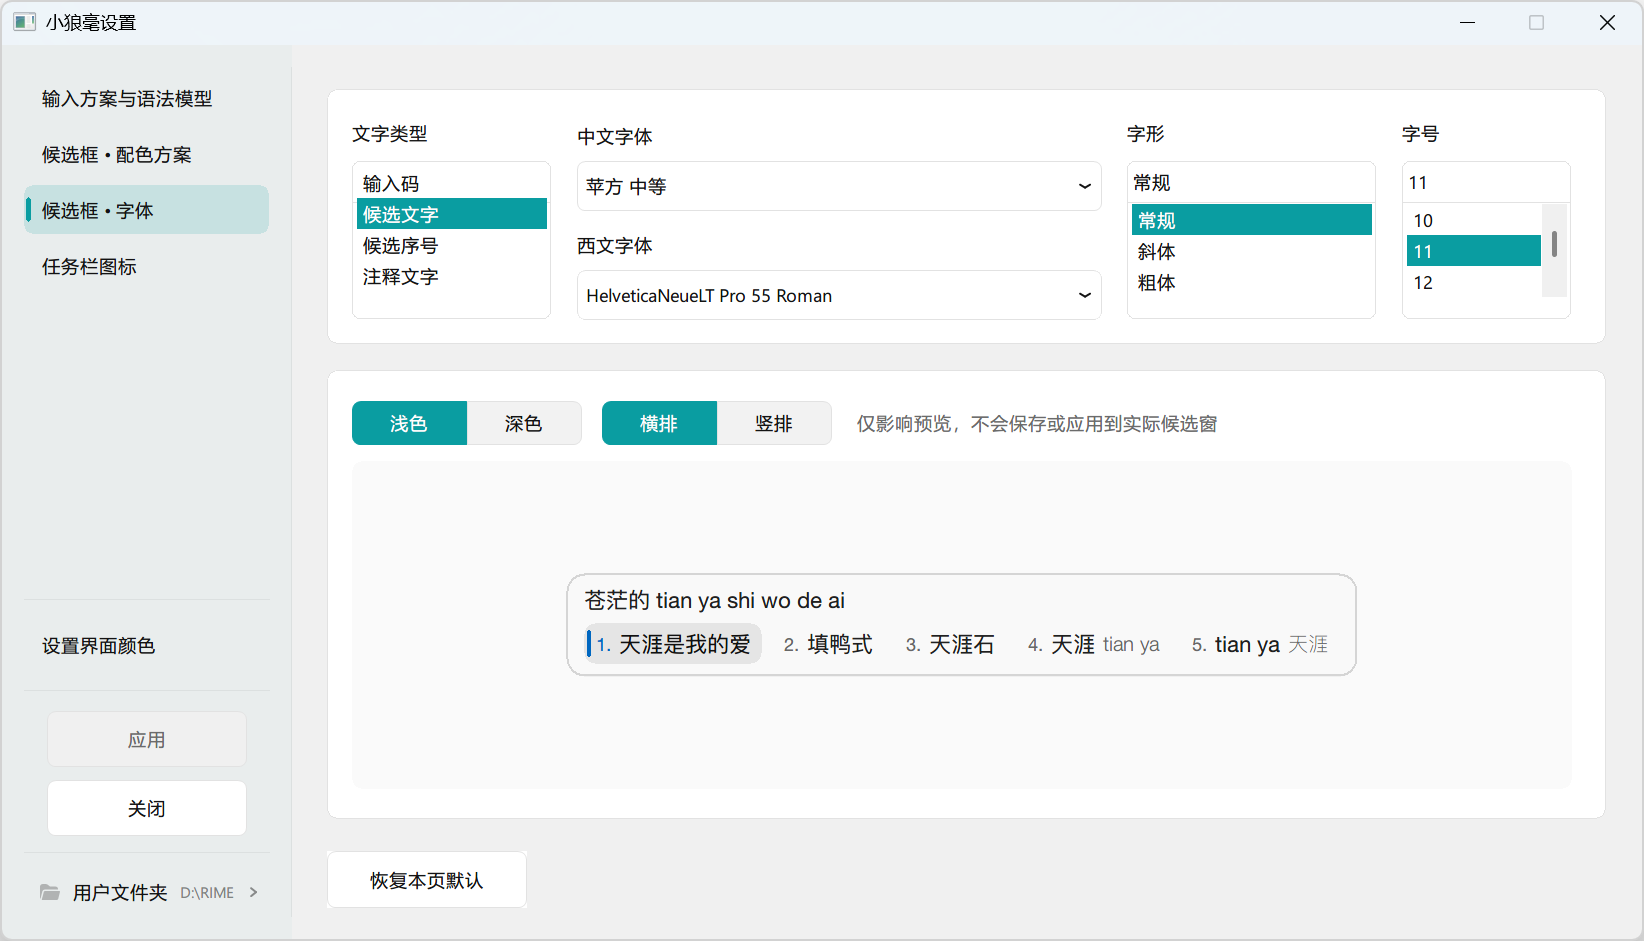
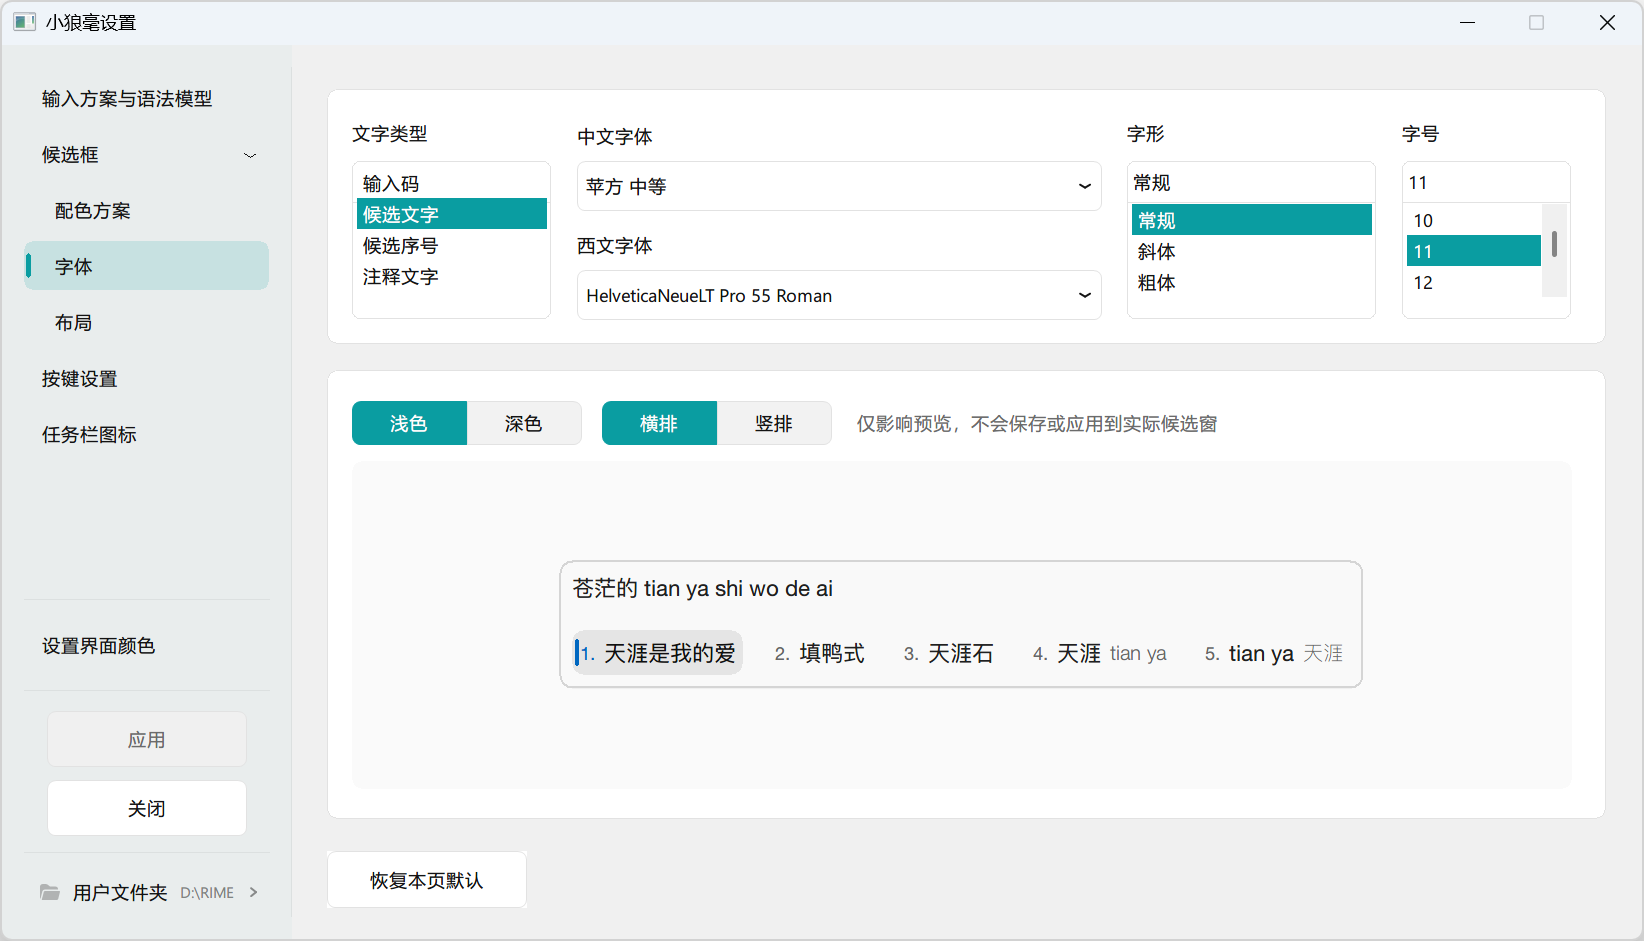
docs: update screenshots and describe customized edition

diff --git a/README.md b/README.md
@@ -1,51 +1,65 @@
-【小狼毫】輸入法
-================
+# 小狼毫 Weasel · 图形化定制版
 
-本仓库基于[原版小狼毫 Weasel](https://github.com/rime/weasel)和[中州韵 Rime 输入法引擎](https://github.com/rime/librime)开发，图形化设置与万象拼音 Lite 等增强功能的源码已合入 `master`。**本仓库不是 Rime 官方发布版**；原版小狼毫的介绍、使用方法和致谢保留在下文。
+本改版基于[原版小狼毫 Weasel](https://github.com/rime/weasel)和[中州韵 Rime 输入法引擎](https://github.com/rime/librime)，将输入方案、候选框外观、按键和任务栏图标等常用设置集中到图形界面，同时保留 Rime 的方案与用户自定义配置机制。**这里不是 Rime 官方发布版。**本改版的说明和截图在前，原版小狼毫的介绍、使用说明与致谢保留在本文后半部分。
 
-[![下载本版](https://img.shields.io/github/v/release/nbzQing/weasel?label=%E4%B8%8B%E8%BD%BD%E6%9C%AC%E7%89%88)](https://github.com/nbzQing/weasel/releases)
+[![下载本版](https://img.shields.io/github/v/release/nbzQing/weasel?label=%E4%B8%8B%E8%BD%BD%E6%9C%AC%E7%89%88)](https://github.com/nbzQing/weasel/releases/latest)
 [![本版构建状态](https://github.com/nbzQing/weasel/actions/workflows/ci.yml/badge.svg)](https://github.com/nbzQing/weasel/actions/workflows/ci.yml)
 
-## 本版功能
-
-| 功能 | 内容 |
-| --- | --- |
-| 集中设置 | 从任务栏图标右键菜单的「输入法设定」进入，管理输入方案与语法模型、候选框配色、候选框字体、任务栏图标；各页面的待应用更改会统一提示。 |
-| 万象拼音 Lite | 安装包内置可直接使用的 Lite 方案；设置页可选择方案、检查和安装更新。更新优先使用 CNB 国内源，保留用户词典、根目录的 `*.custom.yaml` 和其他方案目录。 |
-| 可选语法模型 | 万象简体 LTS 语法模型可单独下载、更新或移除。**语法模型不包含在安装包中**；不下载也能使用 Lite 方案。 |
-| 候选框外观 | 通过图形界面设置浅色、深色配色及不同文字类型的字体、字号，并预览候选框；支持亚克力磨砂效果。 |
-| 任务栏图标 | 分别设置中文、西文、大写锁定状态图标，选择全局或方案图标，预览浅色和深色任务栏；也可更换输入法标识图标，后者需要管理员授权。 |
-| 设置界面外观 | 设置窗口可跟随系统、始终浅色或始终深色。强调色可跟随 Windows、使用默认色 `#0A9DA1`，或通过取色器、颜色代码和 HEX/RGB/HSV/HSL/CMYK 数值自定义。 |
-
-## 设置界面预览
-
-以下截图来自本地隔离的设置预览，展示输入方案、候选框和任务栏图标的实际界面。
+## 改版特点
 
 ### 输入方案与语法模型
 
-![输入方案与可选语法模型设置](docs/screenshots/settings-schemes.png)
+设置页默认进入「输入方案与语法模型」。左侧列出可用方案，勾选后启用；右侧显示所选方案的说明、版本及相关资源。安装包内置可直接使用的万象拼音 Lite；万象简体 LTS 语法模型是可选下载项，可以单独安装、更新或移除，**不包含在安装包中**。方案与模型支持检查更新，检查频率可在界面中选择。
+
+「功能开关设置」用于指定打开方案时的默认状态，并读取方案文件及用户自定义配置中的已有设置；输入过程中需要临时切换时，可使用任务栏菜单中的「当前方案快捷开关」，常用项可固定在菜单中。这两种用途分开，不必为了临时切换反复修改默认配置。
+
+![输入方案、语法模型与功能开关入口](docs/screenshots/settings-schemes.png)
 
 ### 候选框配色
 
-![浅色与深色候选框配色预览](docs/screenshots/settings-appearance.png)
+可启用或关闭亚克力磨砂效果，选择跟随系统、固定浅色或固定深色界面，并从现有配色方案开始编辑。自定义颜色按候选框、输入码、普通候选、选中候选等对象分类；可以使用取色器、颜色代码、透明度及 RGB、HSV、HSL、CMYK 等数值方式调整。右侧同时给出浅色与深色候选框预览，便于对照文字、标签、注释与背景的效果。
+
+![候选框配色与浅色、深色预览](docs/screenshots/settings-appearance.png)
 
 ### 候选框字体
 
-![候选框各类文字的字体与字号设置](docs/screenshots/settings-fonts.png)
+输入码、候选文字、候选序号和注释文字可分别设置中文字体、西文字体、字形及字号。页面中的浅色/深色、横排/竖排按钮只切换预览视角，方便检查同一组字体在不同候选框中的表现；这些预览按钮本身不会改变实际候选框设置。
+
+![不同文字类型的字体、字形与字号设置](docs/screenshots/settings-fonts.png)
+
+### 候选框布局
+
+布局页按「窗口」「预编辑区」「其它选项」「布局」组织设置，涵盖候选词个数、窗口尺寸与圆角、边距、排列方式以及候选项行为等项目。数值、开关和枚举分别使用对应控件；仅在特定布局或竖排文本下适用的项目会按条件开放。页面读取本机方案和自定义配置，右侧浅色、深色预览随编辑变化；确认后点击「应用」再写入用户配置。
+
+![候选框布局与即时预览](docs/screenshots/settings-layout.png)
+
+### 按键设置
+
+可以分别设置左/右 Shift、左/右 Ctrl 和 Caps Lock 在切换中英文时的行为；分隔线将三组按键清楚区分。候选翻页的上一页、下一页按键也可在此查看和修改。方案专用按键沿用方案自身的默认配置，此页聚焦小狼毫与 Rime 支持的通用按键项目。
+
+![切换中英文和候选翻页按键设置](docs/screenshots/settings-keys.png)
 
 ### 任务栏图标
 
+中文、西文和大写状态的图标可逐项更换，既能设置适用于所有方案的全局图标，也能选择方案图标。任务栏预览可切换不同输入状态与浅色、深色背景，便于检查辨识度。输入法标识图标另有独立入口；更换该图标需要管理员权限。
+
 ![输入状态图标与任务栏预览](docs/screenshots/settings-taskbar.png)
 
-## 下载与使用
+### 设置界面颜色
 
-1. 从[本仓库发布页](https://github.com/nbzQing/weasel/releases)下载安装包，具体功能与架构以对应 Release 的说明为准。最新 `master` 源码可能尚未制成安装包；语法模型始终单独下载，不随安装包提供。
-2. 初次安装时，在「安装选项」中选择输入语言。新用户首次部署默认启用万象拼音 Lite；已有用户的方案选择和自定义配置会保留。
-3. 在 Windows 输入法列表中选择小狼毫。右键单击任务栏中的小狼毫图标，打开「输入法设定」；修改输入法设置后点击「应用」。
+设置窗口可跟随系统外观，也可始终使用浅色或深色。强调色可以跟随 Windows、恢复默认或自定义；自定义时提供取色器、颜色代码和多种颜色数值方式。这里调整的是**设置程序本身的界面颜色**，候选框的颜色请到「候选框 → 配色方案」修改。
 
-用户词典和配置文件默认位于 `%AppData%\Rime`；如果更改过用户目录，以设置窗口「用户文件夹」显示的路径为准。直接编辑配置文件后，仍须重新部署。方案选单快捷键以当前方案配置为准，通常可使用 <kbd>Ctrl+`</kbd> 或 <kbd>F4</kbd>。
+![设置界面模式与自定义强调色](docs/screenshots/settings-interface-color.png)
 
-本分支新增功能的问题与建议，请到[本仓库 Issues](https://github.com/nbzQing/weasel/issues)反馈；原版小狼毫和 Rime 的资料与反馈入口见下文。
+## 下载、使用与配置
+
+1. 从[本仓库的 Release 页面](https://github.com/nbzQing/weasel/releases/latest)下载 Windows 安装包。当前发布版为 0.17.4.194，包含 x64 与 x86 程序；语法模型按需在设置页另行下载。
+2. 初次安装时选择输入语言。新用户首次部署默认启用万象拼音 Lite；已有用户的方案选择、用户词典和自定义配置会保留。
+3. 在 Windows 输入法列表中选择小狼毫，右键单击任务栏图标，打开「输入法设定」。设置页里的预览用于检查效果；对候选框、按键及功能默认状态的修改，确认后点击「应用」才写入配置。
+
+用户词典与配置文件通常位于 %AppData%\Rime；如果更改过用户目录，以设置窗口底部「用户文件夹」显示的实际路径为准。直接手工编辑配置文件后仍需重新部署。方案选单快捷键以当前方案配置为准，通常可使用 Ctrl+反引号键或 F4。
+
+本改版的问题与建议请到[本仓库 Issues](https://github.com/nbzQing/weasel/issues)反馈。下文保留上游原版说明；其中原版发布链接、系统适用范围和操作描述属于上游资料，本改版请以上述说明及对应 Release 页面为准。
 
 ## 原版小狼毫介绍与致谢
 
